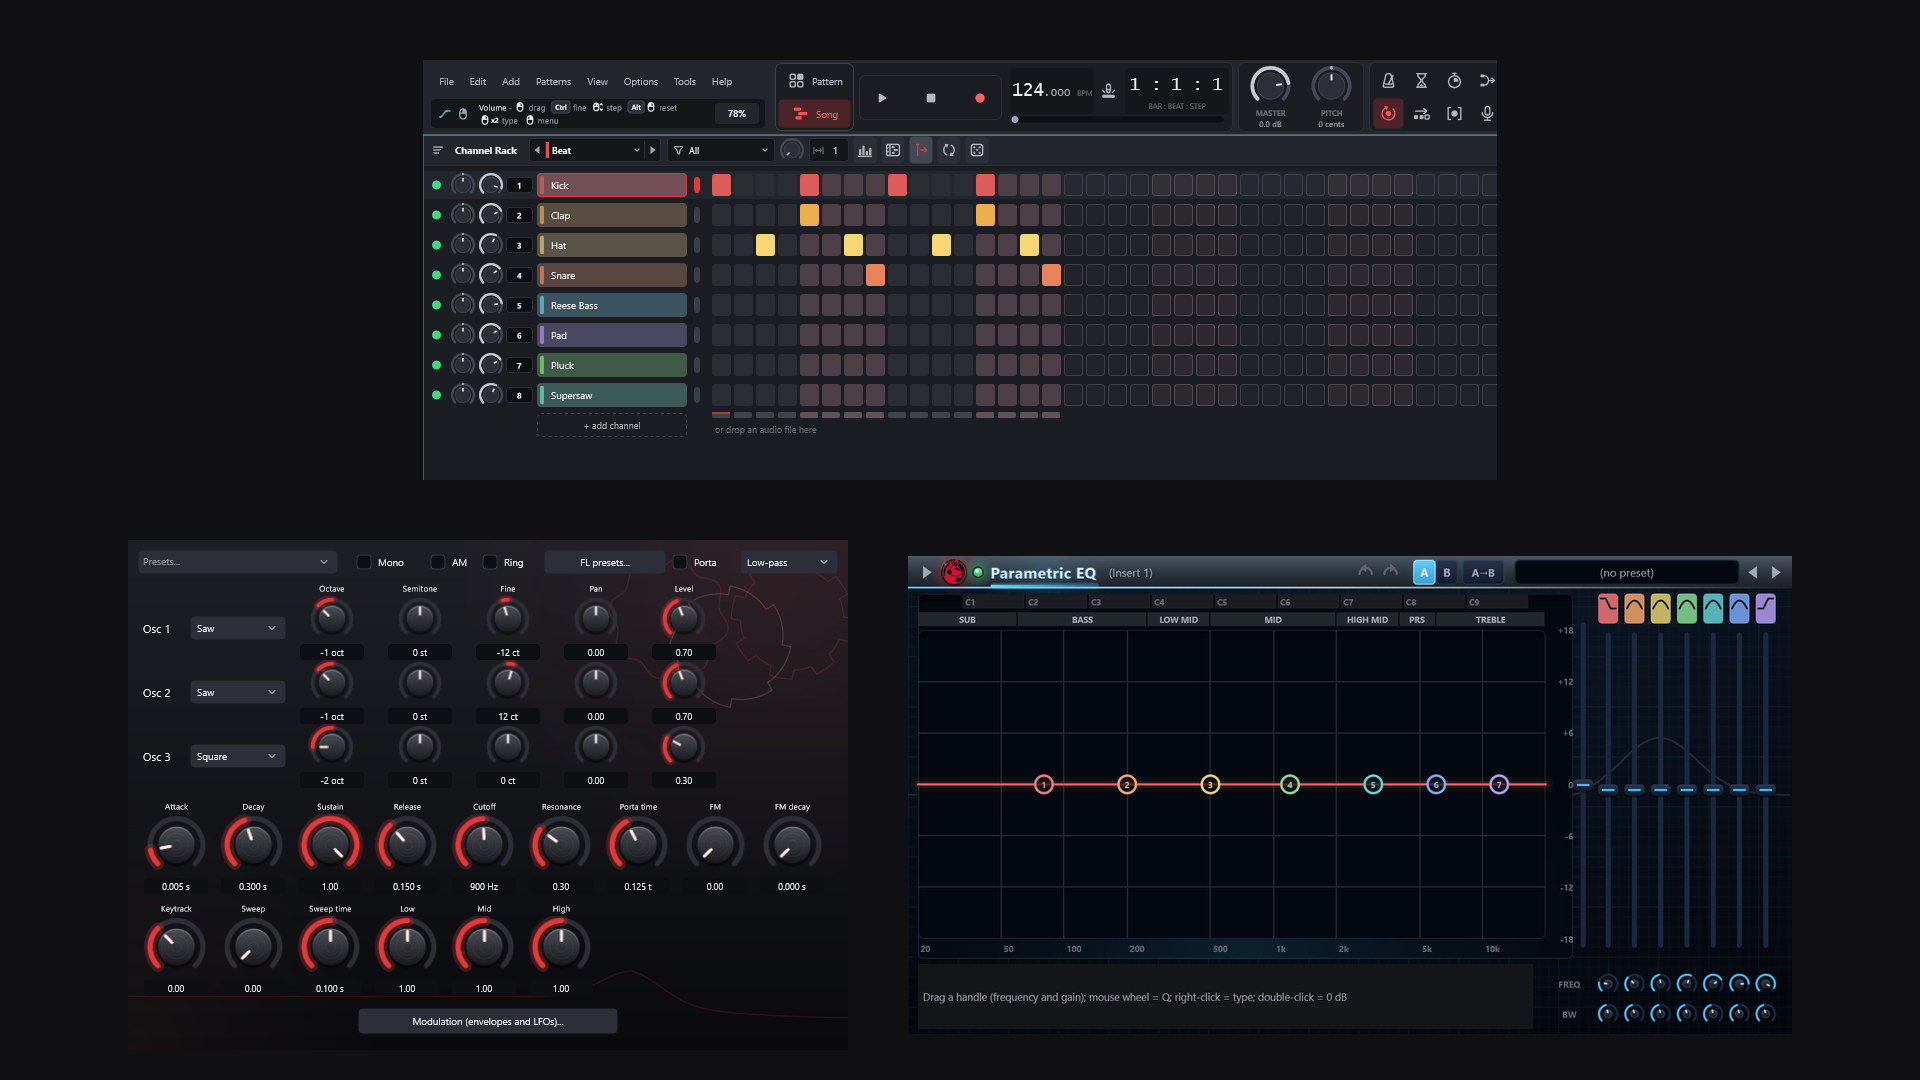
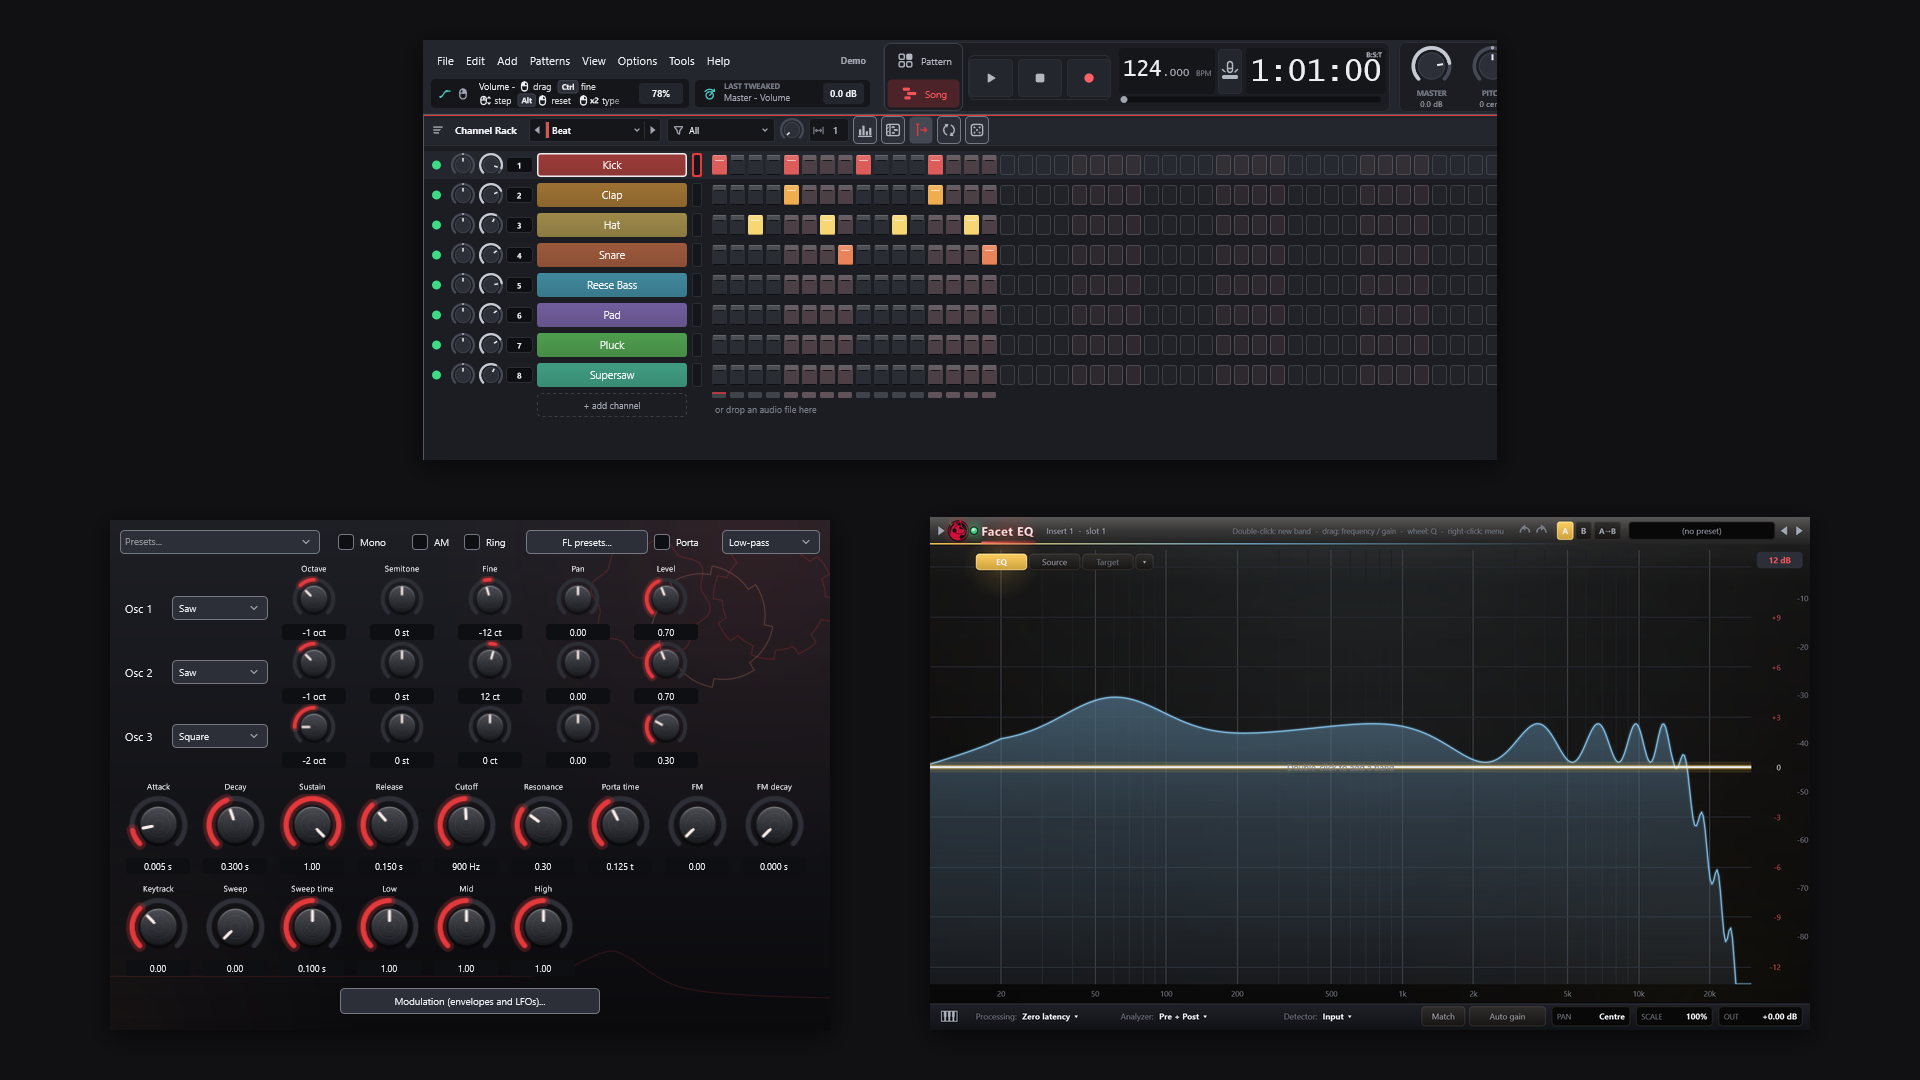
README and Store: the 0.1.30 features in pictures
- New README pictures from the same 0.1.30 exe, off-screen routes: docs/img/poly-note-editor.png (Edit notes
  (polyphonic) on a piano recording, a chord moved up a semitone; --polyeditshot190lo), ara-edit.png + @2x (the audio
  clip menu with Edit in ARA plugin > Melodyne; --arashot190kx, menus only: no Celemony artwork), chord-helper.png (the
  Piano roll's Chord helper; --modal190mc), helix-plus.png + @2x (Helix with the Helix+ strip; --helixshot190mi),
  drum-machine.png + @2x (the Simple workflow's Drum Machine; --details190lrshot; a stray "Make a beat first before
  export" tooltip over the grid's right end replaced with the same dock's pixels from the same run).
- README: a new "Audio editing, chords and sound design" table (polyphonic note editor, ARA 2 plugins, Chord helper,
  Helix+) and the Drum Machine picture under the Simple workflow; the Mixer has up to 500 inserts (FL 2026's dynamic
  mixer since round 166d), not 127.
- Store: 05-instruments-effects re-made from this build's renders (Channel Rack, the 3x-oscillator synth, Facet EQ:
  the old one still showed the 0.1.26 plugin header); new 06-audio-editing, 07-chord-helper, 08-drum-machine,
  09-helix-plus (1920 x 1080), listed in common.md, with captions in all 15 listings (each under 200 characters).

Changed region(s): [[0.0625, 0.4583, 0.9375, 0.9778], [0.2188, 0.0306, 0.7812, 0.3972], [0.4688, 0.9167, 0.7188, 0.9472]]

diff --git a/README.md b/README.md
@@ -113,7 +113,7 @@ menu (split, chop, reverse, fit to tempo and more).
 <td width="50%" valign="top">
 <img src="docs/img/mixer.png" alt="Mixer">
 
-**Mixer.** Up to 127 inserts with 10 effect slots each, sends, sidechain, delay compensation and smart disable, plus
+**Mixer.** Up to 500 inserts with 10 effect slots each, sends, sidechain, delay compensation and smart disable, plus
 any insert to any hardware output.
 
 </td>
@@ -142,6 +142,11 @@ works: the tracks and the timeline in one window, loops and pads, and quick reco
 stems and MIDI from another app, program a beat in the Drum Machine, tune up with the tuner, shape the sound with eight one-knob effects, play chords on a Chord pad and save the song as a file from the Finish dock. *Make my first song*
 walks you through it step by step. The setup wizard offers all three workflows at the first start.
 
+<p align="center">
+  <img src="docs/img/drum-machine.png" alt="The Simple workflow with the Drum Machine open under a drum track" width="100%">
+  <br><sub>The Simple workflow: a drum track and its BandLab-style Drum Machine.</sub>
+</p>
+
 ### Instruments and effects
 
 <table>
@@ -165,6 +170,44 @@ Edison (the audio editor) on any mixer slot, and Patcher for building your own c
 
 Every one of them is listed, with a picture of its editor, in the
 [catalogue of instruments and effects](https://lynx-share.com/instruments-and-effects/).
+
+### Audio editing, chords and sound design
+
+<table>
+<tr>
+<td width="50%" valign="top">
+<img src="docs/img/poly-note-editor.png" alt="The polyphonic note editor: a chord inside a piano recording moved up a semitone">
+
+**Polyphonic note editor.** *Edit notes (polyphonic)* in an audio clip's menu finds the single notes inside chords
+and mixes: move, retune, stretch or mute one of them, shape its modulation and drift, and hear it while you drag.
+
+</td>
+<td width="50%" valign="top">
+<img src="docs/img/ara-edit.png" alt="An audio clip's menu with Edit in ARA plugin and Melodyne">
+
+**ARA 2 plugins.** *Edit in ARA plugin* (clip menu › LYNX extras) opens an audio clip in Melodyne or another ARA 2
+plugin, which edits it in place, in time with the project.
+
+</td>
+</tr>
+<tr>
+<td width="50%" valign="top">
+<img src="docs/img/chord-helper.png" alt="The Chord helper next to the Piano Roll: related keys and borrowed chords">
+
+**Chord helper.** *Tools › Chord helper* in the Piano Roll reads the selected chord and suggests related keys and
+borrowed chords, with how each one moves and feels; hear one on hover, click it to insert it.
+
+</td>
+<td width="50%" valign="top">
+<img src="docs/img/helix-plus.png" alt="Helix with the Helix+ strip">
+
+**Helix and Helix+.** Helix, the wavetable synth, gets a Helix+ strip in its channel window: a third oscillator,
+sample, granular and spectral layers, your own wavetables, more warp modes, unison and filter types, eight macros,
+drawn LFOs, chaos sources and a rack of effects.
+
+</td>
+</tr>
+</table>
 
 ### Everything else
 

diff --git a/store/listings/ru-ru.md b/store/listings/ru-ru.md
@@ -75,3 +75,7 @@ LYNX SHARE 0.1.30: легче, чем когда-либо: примерно вд
 - 03-piano-roll.png — Пишите мелодии и аккорды в Piano Roll
 - 04-mixer.png — Сводите с инсертами, посылами, сайдчейном и встроенными эффектами
 - 05-instruments-effects.png — Степ-секвенсор, встроенные синтезаторы и параметрический эквалайзер
+- 06-audio-editing.png — Редактируйте отдельные ноты внутри аккордов в полифоническом редакторе нот или открывайте аудиоклипы в Melodyne и других плагинах ARA 2
+- 07-chord-helper.png — Помощник по аккордам предлагает родственные тональности и заимствованные аккорды для выбранного аккорда
+- 08-drum-machine.png — Пропишите бит в драм-машине в стиле BandLab в Простом режиме работы
+- 09-helix-plus.png — Helix, вейвтейбл-синтезатор, с Helix+: третий осциллятор, гранулярный и спектральный слои, 8 макросов, рисуемые LFO и эффекты

diff --git a/store/listings/ko-kr.md b/store/listings/ko-kr.md
@@ -70,3 +70,7 @@ LYNX SHARE 0.1.30: 그 어느 때보다 가볍게. 테스트 PC에서 FL의 Thie
 - 03-piano-roll.png — Piano Roll에서 멜로디와 코드를 찍어 보세요
 - 04-mixer.png — 인서트, 센드, 사이드체인, 내장 이펙트로 믹싱
 - 05-instruments-effects.png — 스텝 시퀀서, 내장 신스, 파라메트릭 EQ
+- 06-audio-editing.png — 폴리포닉 노트 에디터로 코드 안의 음을 하나씩 편집하거나, 오디오 클립을 Melodyne 등 ARA 2 플러그인에서 열어 보세요
+- 07-chord-helper.png — 코드 도우미가 선택한 코드에 맞는 관련 키와 차용 화음을 제안합니다
+- 08-drum-machine.png — 간단한 워크플로의 BandLab 스타일 드럼 머신으로 비트를 찍어 보세요
+- 09-helix-plus.png — 웨이브테이블 신스 Helix와 Helix+: 세 번째 오실레이터, 그래뉼러·스펙트럴 레이어, 매크로 8개, 직접 그리는 LFO, 이펙트

diff --git a/store/listings/fr-fr.md b/store/listings/fr-fr.md
@@ -77,3 +77,7 @@ LYNX SHARE 0.1.30 : plus léger que jamais, avec environ la moitié du CPU de FL
 - 03-piano-roll.png — Écrivez mélodies et accords dans le Piano Roll
 - 04-mixer.png — Mixez avec inserts, sends, sidechain et effets intégrés
 - 05-instruments-effects.png — Séquenceur pas à pas, synthés intégrés et égaliseur paramétrique
+- 06-audio-editing.png — Éditez des notes isolées dans les accords avec l'éditeur de notes polyphonique, ou ouvrez les clips audio dans Melodyne et d'autres plugins ARA 2
+- 07-chord-helper.png — L'assistant d'accords propose des tonalités voisines et des accords d'emprunt pour l'accord sélectionné
+- 08-drum-machine.png — Programmez un rythme dans la boîte à rythmes façon BandLab du Flux simple
+- 09-helix-plus.png — Helix, le synthé wavetable, avec Helix+ : un troisième oscillateur, des couches granulaire et spectrale, 8 macros, des LFO dessinés et des effets

diff --git a/store/listings/de-de.md b/store/listings/de-de.md
@@ -75,3 +75,7 @@ LYNX SHARE 0.1.30: leichter denn je, mit etwa der halben CPU-Last von FL Studio 
 - 03-piano-roll.png — Melodien und Akkorde in der Piano Roll schreiben
 - 04-mixer.png — Mischen mit Inserts, Sends, Sidechain und integrierten Effekten
 - 05-instruments-effects.png — Step-Sequencer, integrierte Synthesizer und der parametrische EQ
+- 06-audio-editing.png — Einzelne Noten in Akkorden im polyphonen Noteneditor bearbeiten oder Audio-Clips in Melodyne und anderen ARA-2-Plugins öffnen
+- 07-chord-helper.png — Der Akkord-Helfer schlägt verwandte Tonarten und geliehene Akkorde für den ausgewählten Akkord vor
+- 08-drum-machine.png — Einen Beat in der Drum Machine im Stil von BandLab im Einfachen Arbeitsablauf programmieren
+- 09-helix-plus.png — Helix, der Wavetable-Synthesizer, mit Helix+: dritter Oszillator, Granular- und Spektral-Ebenen, 8 Makros, gezeichnete LFOs und Effekte

diff --git a/store/listings/es-es.md b/store/listings/es-es.md
@@ -77,3 +77,7 @@ LYNX SHARE 0.1.30: más ligero que nunca, con cerca de la mitad de CPU que FL St
 - 03-piano-roll.png — Escribe melodías y acordes en el Piano Roll
 - 04-mixer.png — Mezcla con inserts, envíos, sidechain y efectos integrados
 - 05-instruments-effects.png — Secuenciador por pasos, sintetizadores integrados y el ecualizador paramétrico
+- 06-audio-editing.png — Edita notas sueltas dentro de acordes en el editor de notas polifónico, o abre clips de audio en Melodyne y otros plugins ARA 2
+- 07-chord-helper.png — El asistente de acordes sugiere tonalidades relacionadas y acordes prestados para el acorde seleccionado
+- 08-drum-machine.png — Programa un ritmo en la caja de ritmos al estilo de BandLab del Flujo simple
+- 09-helix-plus.png — Helix, el sintetizador wavetable, con Helix+: un tercer oscilador, capas granular y espectral, 8 macros, LFO dibujados y efectos

diff --git a/store/listings/pt-br.md b/store/listings/pt-br.md
@@ -81,3 +81,7 @@ LYNX SHARE 0.1.30: mais leve do que nunca, usando cerca de metade da CPU do FL S
 - 03-piano-roll.png — Escreva melodias e acordes no Piano Roll
 - 04-mixer.png — Mixe com inserts, sends, sidechain e efeitos embutidos
 - 05-instruments-effects.png — Sequenciador de passos, sintetizadores embutidos e o EQ paramétrico
+- 06-audio-editing.png — Edite notas isoladas dentro de acordes no editor de notas polifônico, ou abra clipes de áudio no Melodyne e em outros plugins ARA 2
+- 07-chord-helper.png — O assistente de acordes sugere tonalidades relacionadas e acordes emprestados para o acorde selecionado
+- 08-drum-machine.png — Programe uma batida na Drum Machine no estilo do BandLab, no Fluxo simples
+- 09-helix-plus.png — Helix, o sintetizador wavetable, com Helix+: um terceiro oscilador, camadas granular e espectral, 8 macros, LFOs desenhados e efeitos

diff --git a/store/listings/it-it.md b/store/listings/it-it.md
@@ -76,3 +76,7 @@ LYNX SHARE 0.1.30: più leggero che mai, con circa la metà della CPU di FL Stud
 - 03-piano-roll.png — Scrivi melodie e accordi nel Piano Roll
 - 04-mixer.png — Mixa con insert, send, sidechain ed effetti integrati
 - 05-instruments-effects.png — Step sequencer, sintetizzatori integrati ed EQ parametrico
+- 06-audio-editing.png — Modifica singole note dentro gli accordi nell'editor di note polifonico, o apri le clip audio in Melodyne e in altri plugin ARA 2
+- 07-chord-helper.png — L'assistente per gli accordi suggerisce tonalità vicine e accordi presi in prestito per l'accordo selezionato
+- 08-drum-machine.png — Programma un ritmo nella drum machine in stile BandLab del Flusso semplice
+- 09-helix-plus.png — Helix, il sintetizzatore wavetable, con Helix+: un terzo oscillatore, livelli granulare e spettrale, 8 macro, LFO disegnati ed effetti

diff --git a/store/listings/nl-nl.md b/store/listings/nl-nl.md
@@ -75,3 +75,7 @@ LYNX SHARE 0.1.30: lichter dan ooit, met ongeveer de helft van de CPU van FL Stu
 - 03-piano-roll.png — Schrijf melodieën en akkoorden in de Piano Roll
 - 04-mixer.png — Mix met inserts, sends, sidechain en ingebouwde effecten
 - 05-instruments-effects.png — Stepsequencer, ingebouwde synths en de parametrische EQ
+- 06-audio-editing.png — Bewerk losse noten binnen akkoorden in de polyfone noteneditor, of open audioclips in Melodyne en andere ARA 2-plugins
+- 07-chord-helper.png — De akkoordhulp stelt verwante toonsoorten en geleende akkoorden voor bij het geselecteerde akkoord
+- 08-drum-machine.png — Programmeer een beat in de drummachine in BandLab-stijl van de Eenvoudige werkwijze
+- 09-helix-plus.png — Helix, de wavetable-synth, met Helix+: een derde oscillator, granulaire en spectrale lagen, 8 macro's, getekende LFO's en effecten

diff --git a/store/listings/pl-pl.md b/store/listings/pl-pl.md
@@ -75,3 +75,7 @@ LYNX SHARE 0.1.30: lżejszy niż kiedykolwiek, z około połową obciążenia CP
 - 03-piano-roll.png — Pisz melodie i akordy w Piano Roll
 - 04-mixer.png — Miksuj z insertami, sendami, sidechainem i wbudowanymi efektami
 - 05-instruments-effects.png — Sekwencer krokowy, wbudowane syntezatory i parametryczny korektor EQ
+- 06-audio-editing.png — Edytuj pojedyncze nuty wewnątrz akordów w polifonicznym edytorze nut albo otwieraj klipy audio w Melodyne i innych pluginach ARA 2
+- 07-chord-helper.png — Pomocnik akordów podpowiada pokrewne tonacje i akordy zapożyczone do zaznaczonego akordu
+- 08-drum-machine.png — Zaprogramuj bit w automacie perkusyjnym w stylu BandLab w Prostym sposobie pracy
+- 09-helix-plus.png — Helix, syntezator wavetable, z Helix+: trzeci oscylator, warstwy granularna i widmowa, 8 makr, rysowane LFO i efekty

diff --git a/store/listings/tr-tr.md b/store/listings/tr-tr.md
@@ -75,3 +75,7 @@ LYNX SHARE 0.1.30: hiç olmadığı kadar hafif; test PC'mizde FL'nin Thief demo
 - 03-piano-roll.png — Piano Roll'da melodi ve akor yazın
 - 04-mixer.png — Insert, send, sidechain ve dahili efektlerle miks yapın
 - 05-instruments-effects.png — Step sequencer, dahili synth'ler ve parametrik EQ
+- 06-audio-editing.png — Polifonik nota editöründe akorların içindeki tek tek notaları düzenleyin ya da ses kliplerini Melodyne ve diğer ARA 2 plugin'lerinde açın
+- 07-chord-helper.png — Akor yardımcısı, seçili akor için ilgili tonları ve ödünç akorları önerir
+- 08-drum-machine.png — Basit iş akışındaki BandLab tarzı Drum Machine'de bir ritim programlayın
+- 09-helix-plus.png — Wavetable synth Helix, Helix+ ile: üçüncü bir osilatör, granüler ve spektral katmanlar, 8 makro, çizilen LFO'lar ve efektler
